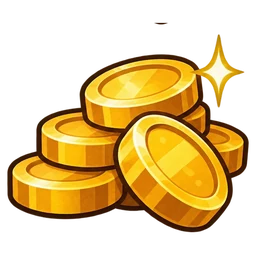
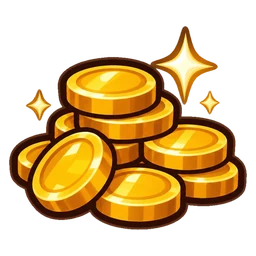
Benefattore (camminata e lancio di monete) e Apicoltore (camminata e posa dell'arnia); nuova icona delle monete
Claude-Session: https://claude.ai/code/session_01HfaWZ85fbzKyRqfxnb746i

diff --git a/index.html b/index.html
@@ -1404,6 +1404,8 @@ const ANIM={
   volpe:{h:31,stride:7,walk:{n:4,fw:222,fh:134,ax:.5},disg:{n:4,fw:211,fh:166,ax:.5},carry:{n:4,fw:209,fh:148,ax:.5}},
   asino:{h:40,stride:5,walk:{n:4,fw:112,fh:130,ax:.5},atk:{n:4,fw:130,fh:134,ax:.578},alarm:{n:4,fw:130,fh:134,ax:.578}},
   bracconiere:{h:38,stride:6,walk:{n:4,fw:93,fh:130,ax:.5},atk:{n:4,fw:130,fh:125,ax:.483},trap:{n:4,fw:124,fh:136,ax:.5}},
+  benefattore:{h:38,stride:6,walk:{n:4,fw:99,fh:129,ax:.5},spawn:{n:4,fw:125,fh:132,ax:.488}},
+  apicoltore:{h:38,stride:6,walk:{n:4,fw:109,fh:130,ax:.5},spawn:{n:4,fw:112,fh:126,ax:.532}},
   puzzola:{h:32,stride:6,walk:{n:4,fw:120,fh:130,ax:.5},atk:{n:4,fw:122,fh:119,ax:.544}},
   oca:{h:38,stride:5,walk:{n:4,fw:126,fh:130,ax:.5},atk:{n:4,fw:185,fh:132,ax:.501},alarm:{n:4,fw:135,fh:142,ax:.491}},
   poliziotto:{h:38,stride:6,walk:{n:4,fw:95,fh:130,ax:.5},atk:{n:4,fw:99,fh:129,ax:.475}},
@@ -1419,7 +1421,7 @@ const ANIM={
   gazza:{h:34,fly:{n:4,fw:186,fh:193,ax:.994,ox:78},carry:{n:4,fw:184,fh:192,ax:.994,ox:78}},
 };
 // file: icons/anim/<personaggio>-walk|atk|fly.webp; ax = punto d'aggancio nel fotogramma (0 sinistra, 1 destra), ox = suo spostamento dal centro (px a scala 128)
-for(const k in ANIM)for(const m of ['walk','atk','fly','st','carry','hit','alarm','emerge','dig','burrow','disg','trap'])if(ANIM[k][m]){const a=ANIM[k][m];a.im=new Image();a.im.src=`icons/anim/${k}-${m}.webp`}
+for(const k in ANIM)for(const m of ['walk','atk','fly','st','carry','hit','alarm','emerge','dig','burrow','disg','trap','spawn'])if(ANIM[k][m]){const a=ANIM[k][m];a.im=new Image();a.im.src=`icons/anim/${k}-${m}.webp`}
 // icone disegnate degli ordini (cartella icons/, file ord-<chiave>.webp); se non si caricano resta l'emoji
 const OIMG={};
 for(const k in ORDERS){ORDERS[k].img='icons/ord-'+k+'.webp';const im=new Image();im.src=ORDERS[k].img;OIMG[k]=im}
@@ -2206,6 +2208,7 @@ function drawToken1(x,y,side,type,star,order,o={}){
     if(o.disguised&&ld(A.disg))sh=A.disg;// travestita (Volpe)
     if(o.carry&&ld(A.carry))sh=A.carry;// con l'uovo in mano: corsa apposita (l'uovo è già disegnato nel foglio)
     if(ld(A.atk)&&o.atk!=null&&o.atk<A.atk.n*AT){sh=A.atk;f=Math.floor(o.atk/AT)}
+    else if(ld(A.spawn)&&o.spAge!=null&&o.spAge<A.spawn.n*.14){sh=A.spawn;f=Math.floor(o.spAge/.14)}// lascia qualcosa in campo (monete, arnia…)
     else if(ld(A.trap)&&o.trAge!=null&&o.trAge<A.trap.n*.14){sh=A.trap;f=Math.floor(o.trAge/.14)}// piazza una trappola (Bracconiere)
     else if(ld(A.alarm)&&o.alAge!=null&&o.alAge<A.alarm.n*.15){sh=A.alarm;f=Math.floor(o.alAge/.15)}// grido d'allarme (Oca)
     else if(ld(A.hit)&&o.hitAge!=null&&o.hitAge<A.hit.n*.09){sh=A.hit;f=Math.floor(o.hitAge/.09)}// colpito: animazione di danno
@@ -2356,8 +2359,8 @@ function render(){
   for(const u of us){
     if((S.fog||S.mist)&&u.side!==G.me&&!S.units.some(a=>a.alive&&a.side===G.me&&sees(a,u))) continue;
     if(u.def.wall){const hh=u.def.wall*FENCE_L,f=u.hp/u.maxHp;if(f<1){ctx.fillStyle='rgba(0,0,0,.45)';ctx.fillRect(X(u.x)-14,u.y-hh-11,28,5);ctx.fillStyle=SIDE[C(u.side)].col;ctx.fillRect(X(u.x)-14,u.y-hh-11,28*f,5)}continue}
-    {const dd=u._lx==null?0:Math.hypot(u.x-u._lx,u.y-u._ly);u._wd=(u._wd||0)+(dd<20?dd:0);u._mv=dd>.05&&dd<20?.12:Math.max(0,(u._mv||0)-1/60);u._lx=u.x;u._ly=u.y;if(u.def.traps){const n=S.traps.filter(t=>t.owner===u.id).length;if(n>(u._ptc||0))u._trT=performance.now();u._ptc=n}if(u._pu&&!u.underground)u._emT=performance.now();if(u._pu===false&&u.underground)u._buT=performance.now();if((u.stT||0)>(u._pst||0)+.5)u._at=performance.now();u._pst=u.stT||0;u._pu=!!u.underground;if(u.lunge>(u._pl||0)+.001)u._at=performance.now();u._pl=u.lunge;if(u.hit>(u._ph||0)+.001)u._ht=performance.now();u._ph=u.hit;if((u.shots||0)!==(u._ps||0))u._at=performance.now();u._ps=u.shots||0;if((u.alarmCd||0)>(u._pac||0)+.5)u._alT=performance.now();u._pac=u.alarmCd||0}
-    drawToken(X(u.x),u.y,C(u.side),u.type,u.star,u.order,{st:statusOf(u,S),carry:u.carrying!==null,emAge:u._emT?(performance.now()-u._emT)/1000:null,buAge:u._buT?(performance.now()-u._buT)/1000:null,trAge:u._trT?(performance.now()-u._trT)/1000:null,alAge:u._alT?(performance.now()-u._alT)/1000:null,hitAge:u._ht?(performance.now()-u._ht)/1000:null,walk:u._wd,moving:u._mv>0,atk:u._at?(performance.now()-u._at)/1000:null,col:G.duo&&duoOwner(u)!=null?duoColOf(duoOwner(u)):null,underground:u.underground,invis:u.invis>0,hpf:u.hp/u.maxHp,stun:u.stun,snare:u.snare,hit:u.hit,lunge:u.lunge,face:F?-u.face:u.face,wait:u.wait,turned:u.turned,disguised:u.disguised,boost:u.boostT});
+    {const dd=u._lx==null?0:Math.hypot(u.x-u._lx,u.y-u._ly);u._wd=(u._wd||0)+(dd<20?dd:0);u._mv=dd>.05&&dd<20?.12:Math.max(0,(u._mv||0)-1/60);u._lx=u.x;u._ly=u.y;if(u.def.spawns){const n=S.units.filter(x=>x.owner===u.id).length;if(n>(u._psc||0))u._spT=performance.now();u._psc=n}if(u.def.traps){const n=S.traps.filter(t=>t.owner===u.id).length;if(n>(u._ptc||0))u._trT=performance.now();u._ptc=n}if(u._pu&&!u.underground)u._emT=performance.now();if(u._pu===false&&u.underground)u._buT=performance.now();if((u.stT||0)>(u._pst||0)+.5)u._at=performance.now();u._pst=u.stT||0;u._pu=!!u.underground;if(u.lunge>(u._pl||0)+.001)u._at=performance.now();u._pl=u.lunge;if(u.hit>(u._ph||0)+.001)u._ht=performance.now();u._ph=u.hit;if((u.shots||0)!==(u._ps||0))u._at=performance.now();u._ps=u.shots||0;if((u.alarmCd||0)>(u._pac||0)+.5)u._alT=performance.now();u._pac=u.alarmCd||0}
+    drawToken(X(u.x),u.y,C(u.side),u.type,u.star,u.order,{st:statusOf(u,S),carry:u.carrying!==null,emAge:u._emT?(performance.now()-u._emT)/1000:null,buAge:u._buT?(performance.now()-u._buT)/1000:null,trAge:u._trT?(performance.now()-u._trT)/1000:null,spAge:u._spT?(performance.now()-u._spT)/1000:null,alAge:u._alT?(performance.now()-u._alT)/1000:null,hitAge:u._ht?(performance.now()-u._ht)/1000:null,walk:u._wd,moving:u._mv>0,atk:u._at?(performance.now()-u._at)/1000:null,col:G.duo&&duoOwner(u)!=null?duoColOf(duoOwner(u)):null,underground:u.underground,invis:u.invis>0,hpf:u.hp/u.maxHp,stun:u.stun,snare:u.snare,hit:u.hit,lunge:u.lunge,face:F?-u.face:u.face,wait:u.wait,turned:u.turned,disguised:u.disguised,boost:u.boostT});
     if(u.fake) drawEgg(X(u.x),u.y-(u.def.flying?40:28),.7,false);
     if(u.carrying!==null&&!(ANIM[u.type]&&ANIM[u.type].carry&&ANIM[u.type].carry.im.naturalWidth)) drawEgg(X(u.x),u.y-(u.def.flying?40:28),.7,false);
     if(u.lb>0){ctx.font='11px "Apple Color Emoji","Segoe UI Emoji","Noto Color Emoji",sans-serif';ctx.textAlign='center';ctx.fillText('💨',X(u.x)-(F?-1:1)*u.face*18,u.y-22)}

diff --git a/sw.js b/sw.js
@@ -2,7 +2,7 @@
 // Pagina e script: prima la rete (così gli aggiornamenti arrivano subito), poi la copia salvata.
 // Immagini: prima la copia salvata. Quando cambi immagini già esistenti, aumenta VERSION.
 // tools/test-pwa.js controlla che tutte le icone siano in PRECACHE.
-const VERSION='ff-v15';
+const VERSION='ff-v16';
 const PRECACHE=[
  "./",
  "index.html",
@@ -33,11 +33,17 @@ const PRECACHE=[
  "icons/coltivatore.webp",
  "icons/corvo.webp",
  "icons/faina.webp",
+ "icons/tagliola.webp",
+ "icons/tagliola-chiusa.webp",
+ "icons/anim/apicoltore-spawn.webp",
+ "icons/anim/apicoltore-walk.webp",
  "icons/anim/asino-alarm.webp",
  "icons/anim/asino-atk.webp",
  "icons/anim/asino-walk.webp",
  "icons/anim/assassino-atk.webp",
  "icons/anim/assassino-walk.webp",
+ "icons/anim/benefattore-spawn.webp",
+ "icons/anim/benefattore-walk.webp",
  "icons/anim/bracconiere-atk.webp",
  "icons/anim/bracconiere-trap.webp",
  "icons/anim/bracconiere-walk.webp",
@@ -89,8 +95,6 @@ const PRECACHE=[
  "icons/anim/volpe-carry.webp",
  "icons/anim/volpe-disg.webp",
  "icons/anim/volpe-walk.webp",
- "icons/tagliola.webp",
- "icons/tagliola-chiusa.webp",
  "icons/nav/market.webp",
  "icons/nav/riserva.webp",
  "icons/nav/squadra.webp",
